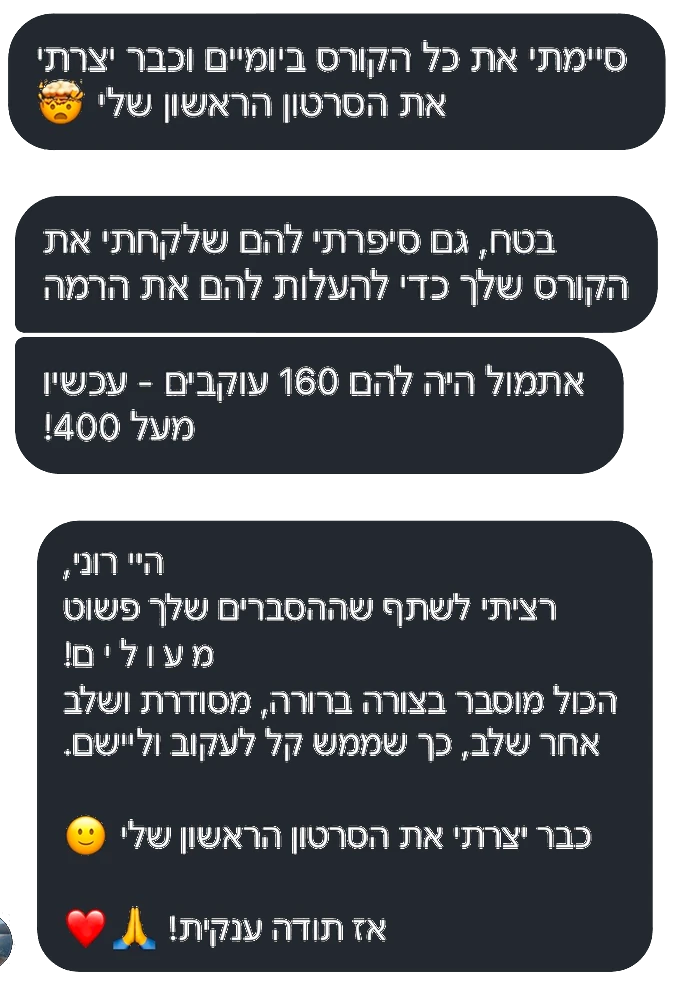
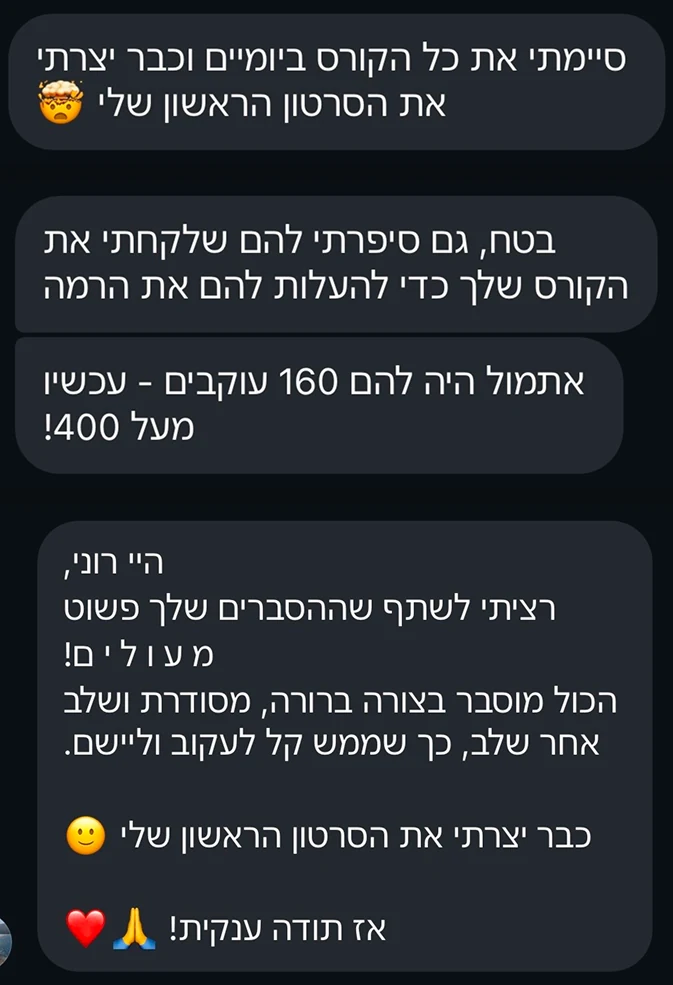
index2: use testimonial screenshots as-is (keep native dark bg, present as rounded shadowed cards); replace all em/en dashes with hyphens in copy

diff --git a/index2.html b/index2.html
@@ -3,10 +3,10 @@
 <head>
     <meta charset="UTF-8">
     <meta name="viewport" content="width=device-width, initial-scale=1.0">
-    <!-- עמוד טיוטה לבדיקת קופי ועיצוב — לא לאינדוקס -->
+    <!-- עמוד טיוטה לבדיקת קופי ועיצוב - לא לאינדוקס -->
     <meta name="robots" content="noindex, nofollow">
     <title>קורס יצירת סרטוני AI | Roni Green</title>
-    <meta name="description" content="קורס דיגיטלי מעשי ליצירת סרטוני AI: בניית דמויות וסצנות, הנפשה ב־Kling, עריכה ב־CapCut, קריינות וליפסינק — גם ללא ניסיון קודם.">
+    <meta name="description" content="קורס דיגיטלי מעשי ליצירת סרטוני AI: בניית דמויות וסצנות, הנפשה ב־Kling, עריכה ב־CapCut, קריינות וליפסינק - גם ללא ניסיון קודם.">
     <link rel="preconnect" href="https://fonts.googleapis.com">
     <link rel="preconnect" href="https://fonts.gstatic.com" crossorigin>
     <link href="https://fonts.googleapis.com/css2?family=Heebo:wght@400;500;600;700;800;900&display=swap" rel="stylesheet">
@@ -43,7 +43,7 @@
 <!-- ================= הדר ================= -->
 <header class="site-header">
     <div class="wrap">
-        <a href="#top" class="header-logo" aria-label="Ronig.ai — לראש העמוד">
+        <a href="#top" class="header-logo" aria-label="Ronig.ai - לראש העמוד">
             <img src="assets/logo-dark.png" alt="Ronig.ai" width="120" height="42">
         </a>
         <nav class="header-nav" aria-label="ניווט ראשי">
@@ -72,7 +72,7 @@
                  width="1300" height="1079" fetchpriority="high">
         </figure>
         <div class="hero-body">
-            <p class="hero-sub">השיטה הפרקטית ליצירת סרטון אנימציה שלם ב-AI, מרמת הרעיון ועד לתוצאה — גם ללא ניסיון קודם.</p>
+            <p class="hero-sub">השיטה הפרקטית ליצירת סרטון אנימציה שלם ב-AI, מרמת הרעיון ועד לתוצאה - גם ללא ניסיון קודם.</p>
             <div class="cta-row">
                 <a href="#pricing" class="btn btn-primary" data-track-cta="hero">אני רוצה ליצור את הסרטון הראשון שלי</a>
                 <a href="#pricing" class="cta-circle" aria-hidden="true" tabindex="-1">←</a>
@@ -90,7 +90,7 @@
                 <div class="proof-item"><strong>100+</strong><small>תלמידים כבר התחילו ליצור</small></div>
                 <div class="proof-item"><strong>מיליוני</strong><small>צפיות בסרטוני AI שיצרתי</small></div>
                 <div class="proof-item"><strong>4+ שעות</strong><small>תוכן בשיעורים קצרים ומעשיים</small></div>
-                <div class="proof-item"><strong>לכל החיים</strong><small>גישה — צופים בקצב שלכם</small></div>
+                <div class="proof-item"><strong>לכל החיים</strong><small>גישה - צופים בקצב שלכם</small></div>
             </div>
         </div>
     </div>
@@ -109,7 +109,7 @@
             <h2 id="hook-title">מגיע לתוכן שלכם להיראות בדיוק כמו שדמיינתם אותו.</h2>
             <p>אתם יודעים ש-AI זה העתיד, ויש לכם רעיונות מטורפים בראש. אבל כשאתם מנסים להוציא אותם לפועל, התוצאה מרגישה לפעמים קצת "פלסטית", מנותקת, או פשוט... כמו של כולם. זה מתסכל להשקיע כל כך הרבה זמן ומאמץ בתוכן שבסוף לא משקף את הרמה האמיתית שלכם.</p>
             <p>אתם לא מחפשים עוד קורס שיסביר לכם על איזה כפתור ללחוץ. אתם מחפשים שיטה מובנית שתעשה לכם סדר, תחזיר לכם את החופש היצירתי, ותאפשר לכם להפיק סרטונים שאי אפשר להוריד מהם את העיניים.</p>
-            <p class="hook-lead">הקורס הזה נבנה בדיוק בשביל זה — לקחת את הוויז'ן שלכם ולהפוך אותו להפקה קולנועית:</p>
+            <p class="hook-lead">הקורס הזה נבנה בדיוק בשביל זה - לקחת את הוויז'ן שלכם ולהפוך אותו להפקה קולנועית:</p>
         </div>
         <div class="hook-grid">
             <div class="hook-card reveal">
@@ -132,7 +132,7 @@
 <section id="process" aria-labelledby="process-title">
     <div class="wrap">
         <div class="section-head reveal">
-            <h2 id="process-title">לא אוסף של טיפים — תהליך אחד שלם</h2>
+            <h2 id="process-title">לא אוסף של טיפים - תהליך אחד שלם</h2>
             <p>במהלך הקורס נעבור יחד על ארבעת החלקים שהופכים רעיון לסרטון AI מוכן לפרסום.</p>
         </div>
         <div class="steps-grid">
@@ -141,7 +141,7 @@
                 <div class="step-label">
                     <span class="step-num">01</span>
                     <span class="step-title">יוצרים דמות וסגנון עקביים</span>
-                    <span class="step-desc">בונים דמות, סביבה ושפה חזותית שיישארו אחידים לאורך הסרטון — ולא ייראו כמו תמונות אקראיות מכלי AI.</span>
+                    <span class="step-desc">בונים דמות, סביבה ושפה חזותית שיישארו אחידים לאורך הסרטון - ולא ייראו כמו תמונות אקראיות מכלי AI.</span>
                 </div>
             </div>
             <div class="step-card reveal">
@@ -202,12 +202,12 @@
     <div class="course-grid">
         <div class="course-media">
             <span class="course-chip">קורס 1 · מתחילים כאן</span>
-            <img src="assets/course-ufo.webp" alt="פריים מתוך קורס יצירת סרטוני אנימציה ב-AI — צלחת מעופפת" loading="lazy">
+            <img src="assets/course-ufo.webp" alt="פריים מתוך קורס יצירת סרטוני אנימציה ב-AI - צלחת מעופפת" loading="lazy">
         </div>
         <div class="course-body">
             <h2 id="course1-title">קורס יצירת סרטוני אנימציה ב־AI</h2>
             <p>הקורס הראשי שבו תלמדו את כל תהליך יצירת האנימציה: מבניית הדמויות והסצנות ועד ההנפשה, העריכה והסרטון המוגמר.</p>
-            <p>הקורס כולל כ־2.5 שעות תוכן המחולקות ל־17 שיעורים קצרים וברורים. במהלך הקורס אני עובדת על סרטון אמיתי, משתפת את המסך ומראה כל שלב בתהליך — כולל הדברים הקטנים שבדרך כלל לא מופיעים במדריכים קצרים.</p>
+            <p>הקורס כולל כ־2.5 שעות תוכן המחולקות ל־17 שיעורים קצרים וברורים. במהלך הקורס אני עובדת על סרטון אמיתי, משתפת את המסך ומראה כל שלב בתהליך - כולל הדברים הקטנים שבדרך כלל לא מופיעים במדריכים קצרים.</p>
             <div class="course-result">בסיום הקורס יהיה לכם תהליך עבודה שאפשר ליישם על הסרטון הראשון וגם על הסרטונים הבאים.</div>
             <dl class="course-meta">
                 <div><dt>משך</dt><dd>כ־2.5 שעות</dd></div>
@@ -219,7 +219,7 @@
             <div class="syllabus" id="syllabus">
                 <h3>מה תלמדו בקורס?</h3>
                 <!-- TODO SYLLABUS: להחליף בשמות המדויקים של 17 השיעורים.
-                     המודולים כאן הם טיוטה על בסיס ההנחיות — רשימת השיעורים האמיתית לא קיימת בפרויקט.
+                     המודולים כאן הם טיוטה על בסיס ההנחיות - רשימת השיעורים האמיתית לא קיימת בפרויקט.
                      כשתהיה רשימה מלאה, אפשר להוסיף אקורדיון "לצפייה בכל 17 השיעורים" עם אורך כל שיעור. -->
                 <div class="accordion acc-dark">
                     <div class="acc-item">
@@ -293,7 +293,7 @@
 <section id="about" class="bg-mint" aria-labelledby="about-title">
     <div class="wrap about-grid">
         <div class="about-photo reveal">
-            <img src="assets/profile.jpg" alt="רוני גרין — יוצרת תוכן וסרטוני AI" width="200" height="200" loading="lazy">
+            <img src="assets/profile.jpg" alt="רוני גרין - יוצרת תוכן וסרטוני AI" width="200" height="200" loading="lazy">
         </div>
         <div class="about-copy reveal">
             <div class="about-label">מי עומדת מאחורי הקורס</div>
@@ -301,7 +301,7 @@
             <p>אני יוצרת תוכן וסרטוני AI, והסרטונים שיצרתי צברו מיליוני צפיות ברשת.</p>
             <p>גם אני לא התחלתי עם צוות הפקה, ציוד מקצועי או רקע באנימציה. בניתי לעצמי תהליך עבודה מהמחשב הביתי, דרך הרבה ניסוי, בדיקה והבנה של מה באמת גורם לסצנות להיראות עקביות ולהתחבר לסרטון שלם.</p>
             <p>בקורס אני חושפת את תהליך העבודה האמיתי שלי: משתפת את המסך, מראה את השלבים לפי הסדר ולא מדלגת על ההחלטות הקטנות שעושות את ההבדל בתוצאה.</p>
-            <p>המטרה שלי היא שלא תסיימו עם עוד רשימת כלים — אלא עם שיטה שתוכלו להמשיך לעבוד איתה בעצמכם.</p>
+            <p>המטרה שלי היא שלא תסיימו עם עוד רשימת כלים - אלא עם שיטה שתוכלו להמשיך לעבוד איתה בעצמכם.</p>
             <div class="about-stats">
                 <div class="about-stat"><strong>מיליוני</strong><span>צפיות</span></div>
                 <div class="about-stat"><strong>100+</strong><span>תלמידים</span></div>
@@ -423,7 +423,7 @@
                 </div>
                 <div class="acc-item">
                     <button class="acc-btn" aria-expanded="false">האם צריך לשלם גם על הכלים?<span class="acc-icon" aria-hidden="true">+</span></button>
-                    <div class="acc-panel"><div><p>רוב כלי ה־AI האיכותיים פועלים במודל של מנוי. למתחילים בדרך כלל מספיק תקציב של כ־30–70 דולר בחודש. מומלץ להתחיל במסלולים החודשיים הנמוכים, לבדוק מה מתאים לכם ולהרחיב רק לפי הצורך.</p></div></div>
+                    <div class="acc-panel"><div><p>רוב כלי ה־AI האיכותיים פועלים במודל של מנוי. למתחילים בדרך כלל מספיק תקציב של כ־30-70 דולר בחודש. מומלץ להתחיל במסלולים החודשיים הנמוכים, לבדוק מה מתאים לכם ולהרחיב רק לפי הצורך.</p></div></div>
                 </div>
                 <div class="acc-item">
                     <button class="acc-btn" aria-expanded="false">איזה ציוד צריך?<span class="acc-icon" aria-hidden="true">+</span></button>

diff --git a/index2.css b/index2.css
@@ -332,7 +332,7 @@ section{padding-block:clamp(52px,7vw,80px)}
   background:transparent; border-radius:0; padding:0; box-shadow:none;
   display:flex; align-items:center; justify-content:center;
 }
-.testimonial-card img{width:100%; max-width:100%}
+.testimonial-card img{width:100%; max-width:100%; border-radius:18px; box-shadow:var(--shadow-sm)}
 .t-rot-a,.t-rot-b,.t-rot-c{transform:none}
 .testimonials-more{text-align:center; margin-top:26px}
 .gallery-cta{text-align:center; margin-top:36px}
